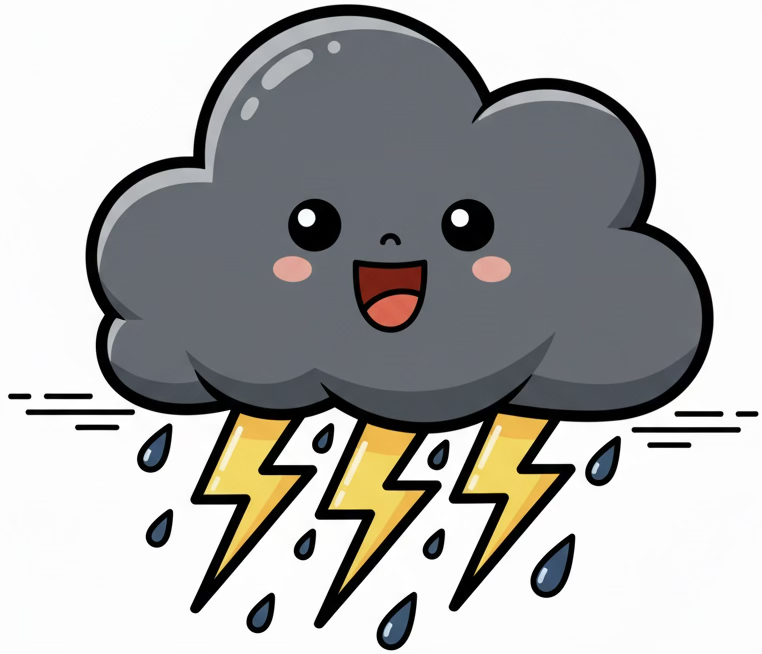
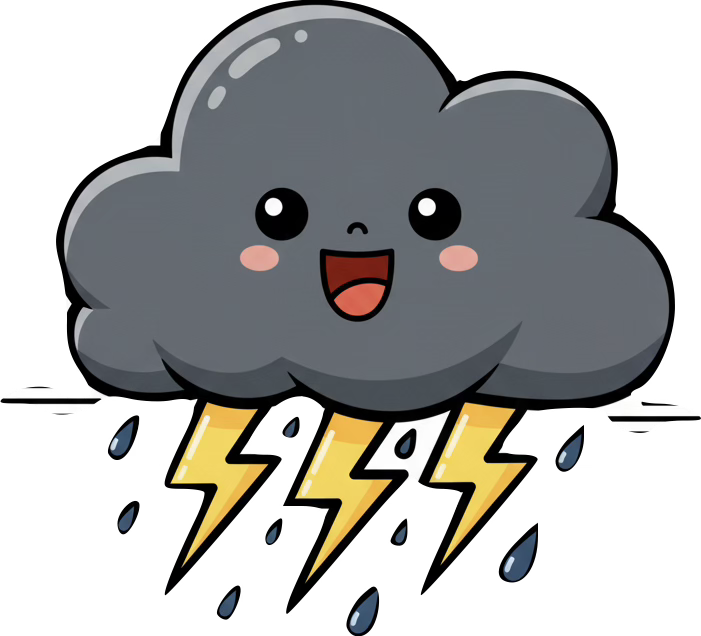
2

diff --git a/unit19.html b/unit19.html
@@ -32,7 +32,7 @@
         height: 100dvh;
         overflow: hidden;
         background: linear-gradient(to bottom, #bde55d, #4f7831);
-        font-family: "Trebuchet MS", "Verdana", sans-serif;
+        font-family: "Trebuchet MS", "Verdana", serif;
         color: var(--ink);
       }
 
@@ -126,7 +126,7 @@
       }
 
       h1 {
-        font-family: "Chalkboard SE", "Comic Sans MS", cursive, sans-serif;
+        font-family: "Chalkboard SE", "Comic Sans MS", cursive, serif;
         font-size: clamp(16px, 5.5vw, 50px);
         color: var(--sun);
         -webkit-text-stroke: 1.5px var(--ocean-deep);